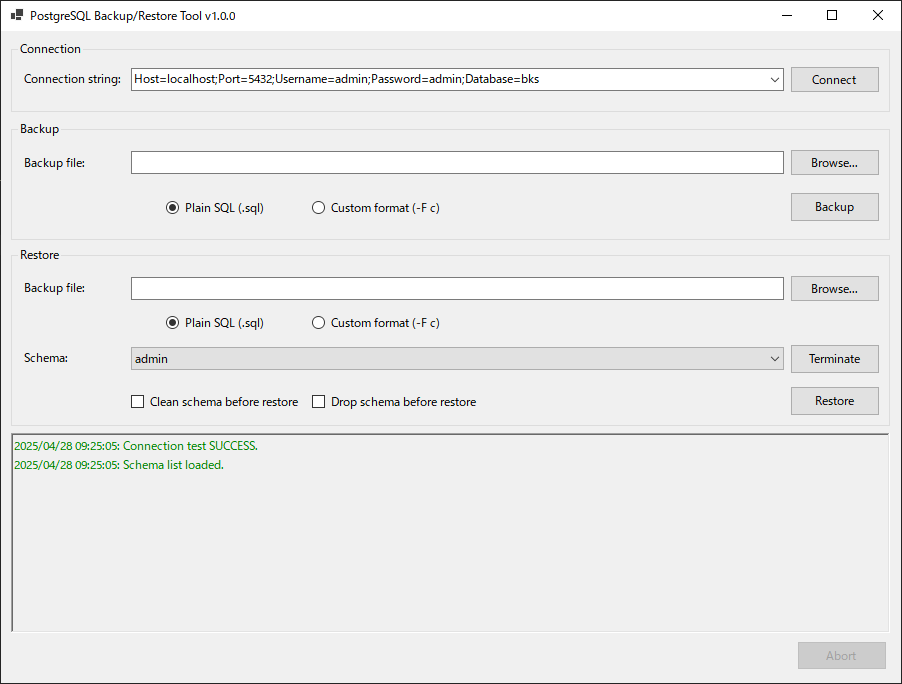
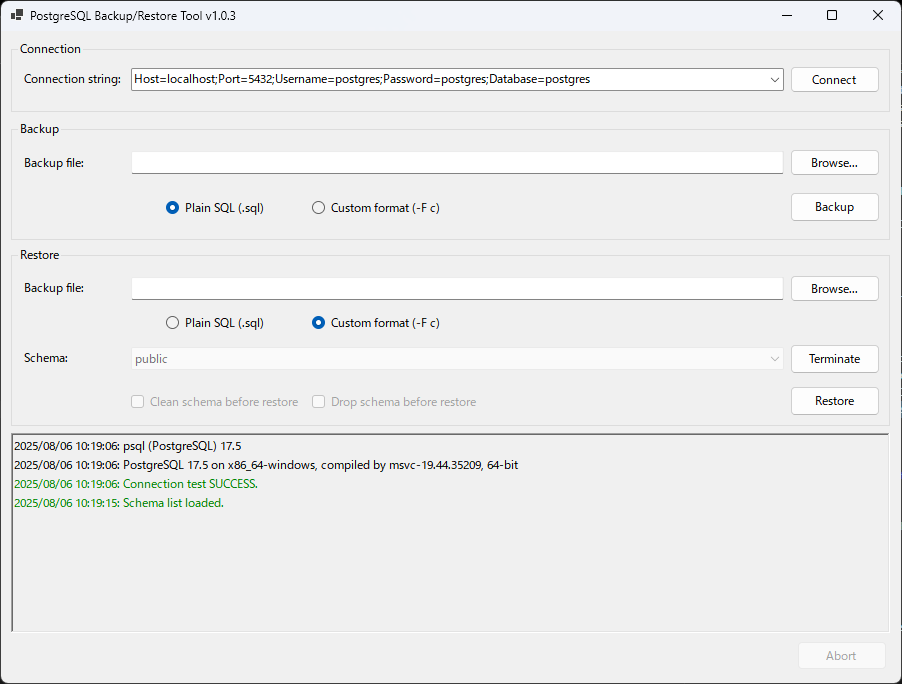
docs: update README and replace screenshot.png

diff --git a/README.md b/README.md
@@ -10,6 +10,7 @@
 - ♻ **Restore** database from:
   - Custom format (`pg_restore`)
   - Plain SQL format (`psql`)
+  - Optional schema drop/clean before plain SQL restores
 - 🖱 **Drag & drop** support: drop a file onto the Restore-file textbox to auto-populate the path
 - 🗜 Improved status bar layout using `TableLayoutPanel` for consistent spacing
 - 🖥 Local or remote host selection via connection‐string dropdown
@@ -33,6 +34,7 @@
 - Async connection testing to avoid UI freezing when listing databases
 - Concurrent stdout/stderr reading to prevent deadlocks on large `psql -l` output
 - `-w` flag automatically added to prevent blocking password prompts
+- Schema cleanup options disabled for custom-format restores to avoid confusion
 
 ## 🧑💻 How to Use
 
@@ -41,7 +43,7 @@
 ```bash
 git clone https://github.com/Chrono-Divide/PgBackupRestoreTool.git
 cd PgBackupRestoreTool
-````
+```
 
 ### 2. Build and Run
 
@@ -53,7 +55,7 @@ dotnet run --project PgBackupRestoreTool
 ```
 
 > To publish as a standalone executable:
->
+> 
 > ```bash
 > dotnet publish -c Release -r win-x64 --self-contained true
 > ```
